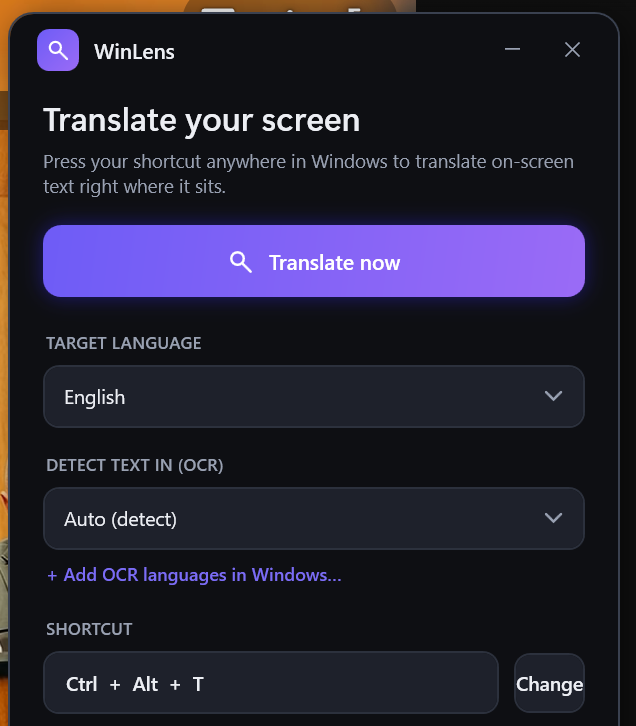
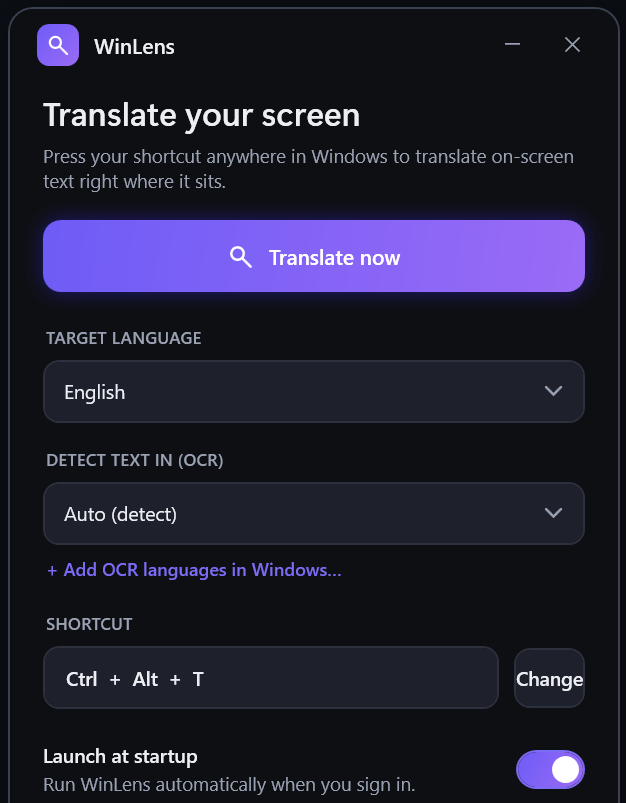
docs: use a clearer before/after demo and a cleaner control-panel shot

diff --git a/README.md b/README.md
@@ -50,14 +50,13 @@ translation, press <kbd>Esc</kbd> to dismiss it.
 - Right-click a block to copy the original text or the translation.
 - Optional "launch at startup". Otherwise it stays out of the way in the tray.
 
-## Demo
+## Control panel
+
+A small tray app with a dark control panel. Pick the target language, set the hotkey,
+choose the OCR source language, and toggle launch-at-startup.
 
 <div align="center">
-<table>
-<tr>
-<td align="center"><b>Control panel</b><br/><img src="assets/settings.png" alt="Settings window" width="260"/></td>
-</tr>
-</table>
+<img src="assets/settings.png" alt="WinLens control panel" width="330"/>
 </div>
 
 ## Installation